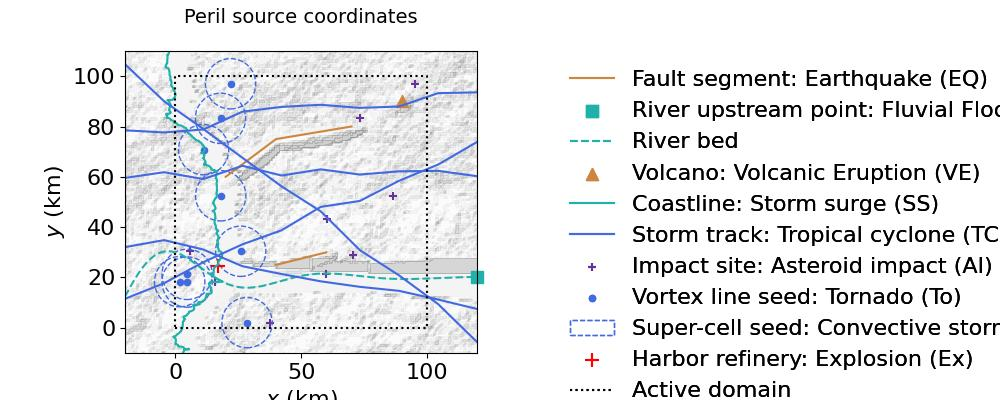
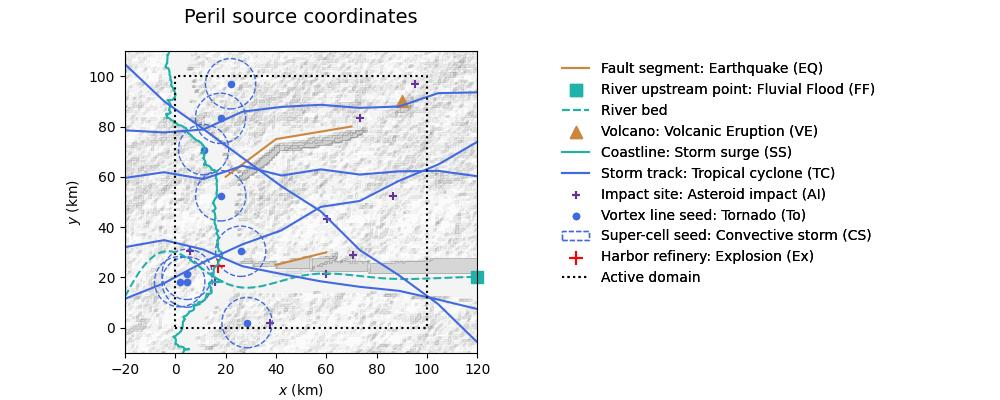
improve BO model for heatwave overdemand scenario

diff --git a/GenMR/perils.py b/GenMR/perils.py
@@ -2602,7 +2602,7 @@ class HazardFootprintGenerator:
 
 
 ## BO case ## - kept separate of any class for now (secondary invisible peril with stochastic element rupture, to update in v.1.2.x)
-def run_BO_flow(energyLayer, par, failed_nodes, failed_lines, slack_id=0, period='day', print_casc=False):
+def run_BO_flow(energyLayer, par, failed_nodes, failed_lines, slack_id=0, period='day', node_demand_stressed = None, print_casc=False):
     '''
     Run a blackout cascade scenario on a power grid using DC power flow.
  
@@ -2630,6 +2630,8 @@ def run_BO_flow(energyLayer, par, failed_nodes, failed_lines, slack_id=0, period
         Index of the node acting as slack node.
     period : {'day', 'night'}, optional
         Demand profile to use. Default is ``'day'``.
+    node_demand_stressed : ndarray, optional
+        Actual demand if different from baseline powergrid demand (e.g., during heatwave). Default is None.
     print_casc : bool, optional
         If True, print diagnostic information during cascade iterations.
 
@@ -2665,6 +2667,10 @@ def run_BO_flow(energyLayer, par, failed_nodes, failed_lines, slack_id=0, period
     for (i, j), f in flows_intact.items():
         key = (min(i, j), max(i, j))
         edge_capacity[key] = (1 + par['tolerance']) * max(abs(f), par['min_capacity_MW'])
+
+    # switch to stressed demand
+    if node_demand_stressed is not None:
+        node_demand = node_demand_stressed
 
     ##################################
     ## Step 2: apply initial damage ##